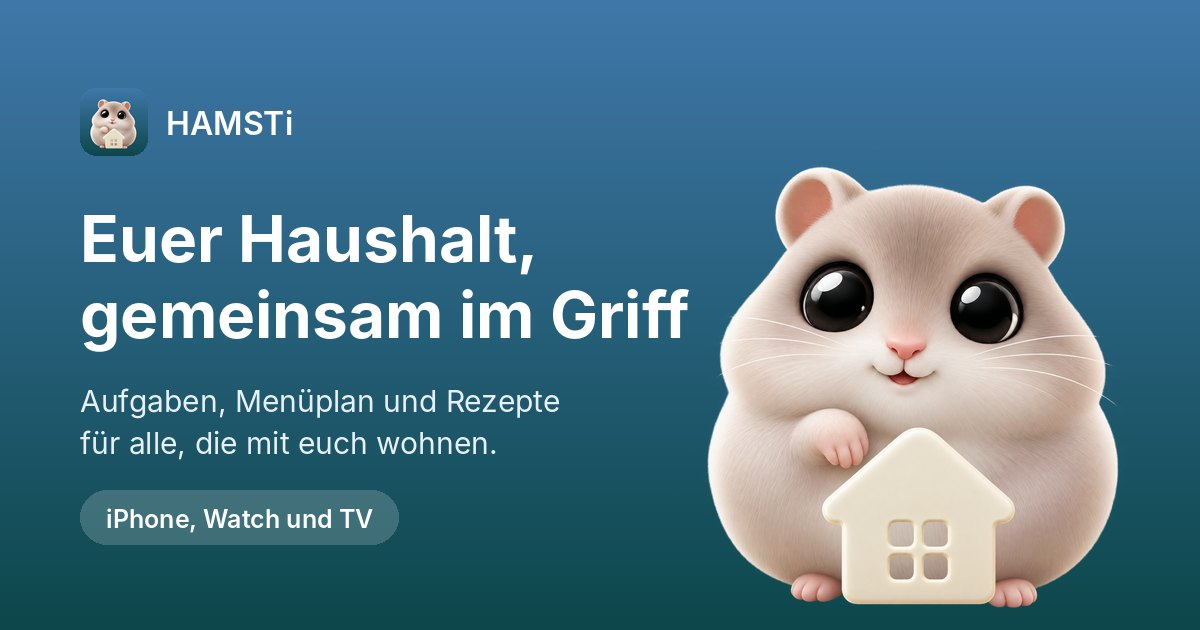
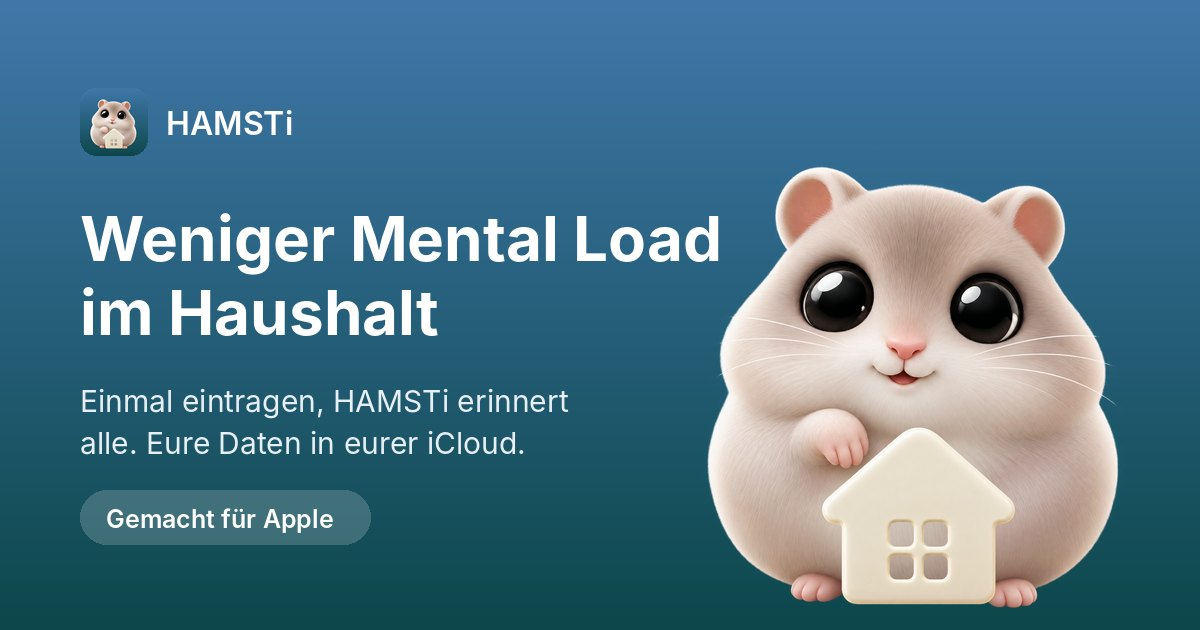
Rewrite landing page around mental load, fairness, Apple-native AI and data sovereignty
Claude-Session: https://claude.ai/code/session_01UAognPUVt2Jdd2Zu747et1

Changed region(s): [[0.0617, 0.3317, 0.6167, 0.573], [0.0617, 0.6032, 0.4933, 0.7238], [0.0925, 0.7841, 0.3392, 0.8746]]

diff --git a/index.html b/index.html
@@ -3,18 +3,18 @@
 <head>
 <meta charset="utf-8">
 <meta name="viewport" content="width=device-width, initial-scale=1, viewport-fit=cover">
-<title>HAMSTi – Aufgaben und Menüplan für euren Haushalt</title>
-<meta name="description" content="HAMSTi hält euren Haushalt am Laufen: wiederkehrende Aufgaben, Menüplan und Rezepte an einem Ort, geteilt mit allen, die mit euch wohnen. Für iPhone, iPad, Apple Watch und Apple TV.">
+<title>HAMSTi – Weniger Mental Load im Haushalt</title>
+<meta name="description" content="HAMSTi nimmt euch den Mental Load ab: Haushaltsaufgaben einfach eintragen, HAMSTi erinnert alle zur richtigen Zeit. Ihr seht, wer wie viel macht, plant Menüs und behaltet eure Rezepte in eurer eigenen iCloud. Für iPhone, iPad, Apple Watch und Apple TV.">
 <meta property="og:site_name" content="HAMSTi">
 <meta property="og:type" content="website">
-<meta property="og:title" content="HAMSTi – Euer Haushalt, gemeinsam im Griff">
-<meta property="og:description" content="Aufgaben, Menüplan und Rezepte für alle, die mit euch wohnen. Alles in eurer iCloud, ohne Konto und ohne Tracking.">
+<meta property="og:title" content="HAMSTi – Weniger Mental Load im Haushalt">
+<meta property="og:description" content="Einmal eintragen, HAMSTi erinnert alle. Sehen, wer wie viel macht. Rezepte in der eigenen iCloud. Gemacht für Apple, ohne Konto und ohne Tracking.">
 <!-- Absolute URLs, sonst zeigen iMessage und Co. kein Bild. Beim Umzug auf hamsti.ch anpassen. -->
 <meta property="og:url" content="https://sirzesso.github.io/">
 <meta property="og:image" content="https://sirzesso.github.io/og-card.jpg">
 <meta property="og:image:width" content="1200">
 <meta property="og:image:height" content="630">
-<meta property="og:image:alt" content="HAMSTi-Hamster mit Haus: Euer Haushalt, gemeinsam im Griff">
+<meta property="og:image:alt" content="HAMSTi-Hamster mit Haus: Weniger Mental Load im Haushalt">
 <meta name="twitter:card" content="summary_large_image">
 <meta name="theme-color" content="#4078aa">
 <link rel="icon" type="image/png" href="/app-icon.png">
@@ -133,7 +133,7 @@
   /* Funktionen */
   .features { display: grid; gap: 1rem; grid-template-columns: 1fr; padding: 0; margin: 0; list-style: none; }
   @media (min-width: 600px) { .features { grid-template-columns: 1fr 1fr; } }
-  @media (min-width: 960px) { .features { grid-template-columns: 1fr 1fr 1fr; } }
+  @media (min-width: 960px) { .features { grid-template-columns: 1fr 1fr 1fr; } .pillars { grid-template-columns: 1fr 1fr; } }
   .feature {
     background: var(--card);
     border-radius: 22px;
@@ -213,8 +213,8 @@
     <div class="hero">
       <img class="hamster" src="/img/hamsti.webp" alt="Hamsti, der Hamster aus der App, mit einem kleinen Haus" width="560" height="566">
       <div>
-        <h1>Euer Haushalt, gemeinsam im Griff</h1>
-        <p class="lead">Wiederkehrende Aufgaben, Menüplan und Rezepte an einem Ort, geteilt mit allen, die mit euch wohnen.</p>
+        <h1>Weniger Mental Load im Haushalt</h1>
+        <p class="lead">Aufgaben einmal eintragen, HAMSTi erinnert alle zur richtigen Zeit. Ihr seht, wer wie viel macht, plant eure Menüs und behaltet eure Rezepte in eurer eigenen iCloud.</p>
         <div class="store-row">
           <span class="soon">Bald im App Store</span>
           <!-- Offizielles Apple-Badge, unverändert. Sobald die App live ist,
@@ -229,6 +229,33 @@
 </header>
 
 <main class="wrap">
+  <section aria-labelledby="why-title">
+    <h2 id="why-title">Niemand muss mehr an alles denken</h2>
+    <p class="section-lead">Im Haushalt bleibt das Daran-Denken oft an einer Person hängen. HAMSTi macht es einfacher und verteilt es auf alle.</p>
+    <ul class="features pillars">
+      <li class="feature">
+        <div class="icon" aria-hidden="true">🧠</div>
+        <h3>Mental Load abgeben</h3>
+        <p>Was sonst im Kopf herumschwirrt, tragt ihr einmal ein, mit eigenem Rhythmus. HAMSTi erinnert zur richtigen Zeit, und alle im Haushalt arbeiten mit derselben Liste.</p>
+      </li>
+      <li class="feature">
+        <div class="icon" aria-hidden="true">⚖</div>
+        <h3>Sehen, wer wie viel macht</h3>
+        <p>Die Statistik zeigt ehrlich, wer im Haushalt wie viel erledigt. Das macht Arbeit sichtbar, die sonst niemand bemerkt.</p>
+      </li>
+      <li class="feature">
+        <div class="icon" aria-hidden="true">🍲</div>
+        <h3>Menüs und Grossmutters Rezepte</h3>
+        <p>Plant die Woche in wenigen Tipps. Eure Rezepte, auch die von der Grossmutter, bleiben in eurer eigenen iCloud, nicht auf irgendeiner Plattform.</p>
+      </li>
+      <li class="feature">
+        <div class="icon" aria-hidden="true">🔒</div>
+        <h3>Eure Daten gehören euch</h3>
+        <p>Kein Konto, kein Server, kein Tracking. Alles liegt in eurer iCloud, und die KI arbeitet auf dem Gerät.</p>
+      </li>
+    </ul>
+  </section>
+
   <section aria-labelledby="shots-title">
     <h2 id="shots-title">So sieht HAMSTi aus</h2>
     <p class="section-lead">Überfällig, heute, bald fällig: auf einen Blick, wer was zu tun hat und was es zu essen gibt.</p>
@@ -257,33 +284,33 @@
   </section>
 
   <section aria-labelledby="features-title">
-    <h2 id="features-title">Was HAMSTi kann</h2>
-    <p class="section-lead">Für Wohnungen, WGs und Familien, in denen das Wiederkehrende nicht an einer Person hängen bleiben soll.</p>
+    <h2 id="features-title">Gemacht für Apple, KI von Anfang an</h2>
+    <p class="section-lead">HAMSTi ist entstanden, weil keine Haushalts-App sauber mit Siri und Apple Intelligence zusammengearbeitet hat. Darum nutzt HAMSTi die stärksten Funktionen von Apple direkt, statt sie nachzubauen.</p>
     <ul class="features">
       <li class="feature">
-        <div class="icon" aria-hidden="true">✅</div>
-        <h3>Aufgaben und Erinnerungen</h3>
-        <p>Jede Aufgabe mit eigenem Rhythmus. HAMSTi erinnert, wenn etwas fällig ist, und ihr hakt es direkt aus der Mitteilung ab.</p>
+        <div class="icon" aria-hidden="true">🎙</div>
+        <h3>Siri und Kurzbefehle</h3>
+        <p>Aufgaben erstellen und abhaken, fragen, was heute fällig ist, und Menüs einplanen, ohne die App zu öffnen.</p>
       </li>
       <li class="feature">
-        <div class="icon" aria-hidden="true">🍽</div>
-        <h3>Menüplan und Rezepte</h3>
-        <p>Plant Tag und Woche, holt Rezepte von jeder Webseite oder fotografiert sie ab. Apple Intelligence ergänzt fehlende Angaben auf dem Gerät.</p>
+        <div class="icon" aria-hidden="true">✨</div>
+        <h3>Apple Intelligence auf dem Gerät</h3>
+        <p>Rezepte zusammenfassen, Zutaten ordnen, Menüs beschriften. Das passiert direkt auf deinem iPhone, nichts geht an einen fremden Server.</p>
+      </li>
+      <li class="feature">
+        <div class="icon" aria-hidden="true">📥</div>
+        <h3>Alles importieren</h3>
+        <p>Ein Rezept von einer Webseite, ein Foto aus dem Kochbuch, ein Link aus der Zwischenablage: HAMSTi macht daraus einen sauberen Eintrag.</p>
       </li>
       <li class="feature">
         <div class="icon" aria-hidden="true">👨👩👧</div>
-        <h3>Haushalt teilen</h3>
+        <h3>Ein Haushalt für alle</h3>
         <p>Ladet alle ein, die mit euch wohnen, über iCloud. Jede Person hat ein eigenes Profil, damit klar ist, wer was erledigt hat.</p>
       </li>
       <li class="feature">
         <div class="icon" aria-hidden="true">💌</div>
         <h3>Rezepte verschicken</h3>
-        <p>Schickt ein Lieblingsrezept an Freunde. Mit einem Tipp landet es in ihrem eigenen Haushalt.</p>
-      </li>
-      <li class="feature">
-        <div class="icon" aria-hidden="true">📱</div>
-        <h3>Widgets</h3>
-        <p>Das heutige Menü und deine nächsten Aufgaben auf dem Home- und Sperrbildschirm.</p>
+        <p>Schickt ein Lieblingsrezept an die Familie. Mit einem Tipp landet es in ihrem eigenen Haushalt.</p>
       </li>
       <li class="feature">
         <div class="icon" aria-hidden="true">📺</div>
@@ -300,27 +327,28 @@
         <img src="/img/watch-menue.webp" alt="Heutiges Menü auf der Apple Watch" width="422" height="514" loading="lazy">
       </div>
       <div>
-        <h2 id="watch-title">Am Handgelenk erledigt</h2>
-        <p>Auf der Apple Watch hakt ihr Aufgaben ab und seht, was es heute zu essen gibt. Dazu gibt es eine Complication fürs Zifferblatt.</p>
+        <h2 id="watch-title">Überall dort, wo ihr seid</h2>
+        <p>Auf der Apple Watch hakt ihr Aufgaben ab und seht, was es heute zu essen gibt. Widgets zeigen das Menü und die nächsten Aufgaben auf dem Home- und Sperrbildschirm.</p>
       </div>
     </div>
   </section>
 
   <section aria-labelledby="privacy-title">
     <div class="privacy">
-      <h2 id="privacy-title">Eure Daten bleiben bei euch</h2>
-      <p>Alles liegt in eurer iCloud. Es gibt keinen HAMSTi-Server, und wir sehen nichts von euren Aufgaben, Menüs oder Rezepten.</p>
+      <h2 id="privacy-title">Datenschutz ist ein Menschenrecht</h2>
+      <p>Wer die eigenen Daten behält, bleibt souverän. Darum liegt alles in eurer iCloud. Es gibt keinen HAMSTi-Server, wir sehen nichts von euren Aufgaben, Menüs oder Rezepten, und die KI rechnet auf dem Gerät.</p>
       <ul class="facts">
         <li>Alles in deiner iCloud</li>
         <li>Kein Konto</li>
         <li>Kein Tracking</li>
         <li>Keine Werbung</li>
+        <li>KI auf dem Gerät</li>
       </ul>
     </div>
   </section>
 
   <section class="closing" aria-labelledby="closing-title">
-    <h2 id="closing-title">Bereit für weniger Haushaltsstress?</h2>
+    <h2 id="closing-title">Weniger im Kopf, mehr Zeit füreinander</h2>
     <p class="section-lead">HAMSTi gibt es für iPhone, iPad, Apple Watch und Apple TV.</p>
     <span class="soon">Bald im App Store</span>
     <img class="badge" src="/app-store-badge.svg" alt="Laden im App Store" width="144" height="48">
